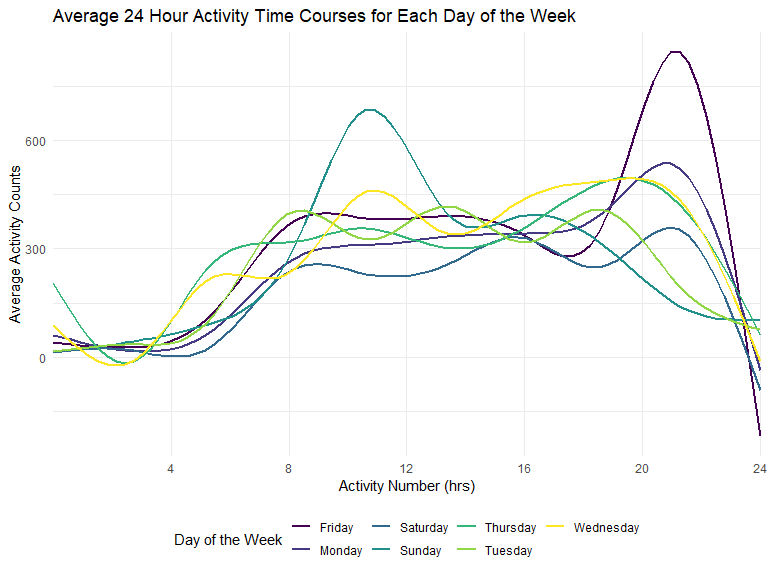
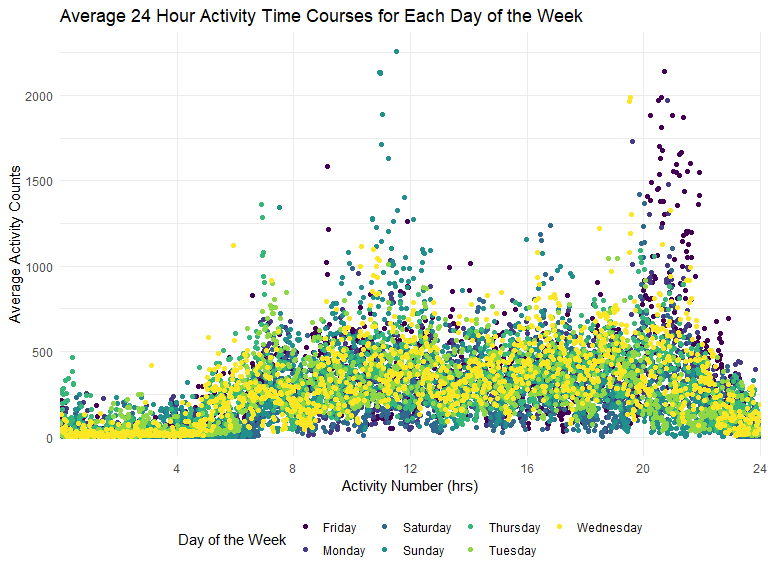
Working on descriptions and formatting for problems 1 and 2

diff --git a/p8105_hw3_jt3175.md b/p8105_hw3_jt3175.md
@@ -5,19 +5,14 @@ Julia Thompson
 
 ## Problem 1
 
-Load the data:
+Loading the *Instacart* data and pulling a random sample for an example:
 
 ``` r
 data("instacart")
 ```
 
-The goal is to do some exploration of this dataset. To that end, write a
-short description of the dataset, noting the size and structure of the
-data, describing some key variables, and giving illstrative examples of
-observations.
-
 ``` r
-# Look at a random person's order info for an illustrative example
+# Look at a random person's order info for an example
 set.seed(5)
 instacart_sample = instacart %>% 
   filter(user_id == sample(pull(instacart, user_id), 1)) 
@@ -39,36 +34,24 @@ For example, we can look at the order for the customer with *user\_id*
 77951. That customer ordered 7 items, including “Ancient Grain Original
 Granola.” Customer 77951 had ordered 6 of the 7 items previously.
 
-How many aisles are there, and which aisles are the most items ordered
-from?
-
 ``` r
-# get number of unique aisles
-n_distinct(pull(instacart, aisle_id))
-```
-
-    ## [1] 134
-
-``` r
-# sort this, and then show the top 3
 top_aisles = 
   instacart %>% 
   count(aisle) %>% 
   arrange(desc(n)) %>% 
   top_n(3, n)
-
-knitr::kable(top_aisles)
 ```
+
+There are 134 aisles, and from the below table, we see that the top 3
+aisles most items are ordered from are fresh vegetables, fresh fruits,
+and packaged vegetables fruits. Here, n represents the total number of
+items ordered from the respective aisle.
 
 | aisle                      |      n |
 | :------------------------- | -----: |
 | fresh vegetables           | 150609 |
 | fresh fruits               | 150473 |
 | packaged vegetables fruits |  78493 |
-
-Make a plot that shows the number of items ordered in each aisle,
-limiting this to aisles with more than 10000 items ordered. Arrange
-aisles sensibly, and organize your plot so others can read it.
 
 ``` r
 aisles_over_10k = 
@@ -90,10 +73,13 @@ ggplot(aisles_over_10k, aes(x = reorder(aisle, -n), y = n)) +
 
 <img src="p8105_hw3_jt3175_files/figure-gfm/unnamed-chunk-4-1.png" width="90%" />
 
-Make a table showing the three most popular items in each of the aisles
-“baking ingredients”, “dog food care”, and “packaged vegetables
-fruits”. Include the number of times each item is ordered in your
-table.
+The above plot shows the number of items ordered in each aisle for
+aisles with more than 10,000 items ordered. We can see the same 3 items
+shown in the chart: *fresh vegetables*, *fresh fruits*, and *packaged
+vegetables fruits*. The majority of the aisles have less than 25,000
+items ordered, with the *butter* aisle having the least (in the \>
+10,000 category). I found it surprising that *water seltzer sparkling
+water* ranked so high in number of items bought.
 
 ``` r
 fav_items = instacart %>% 
@@ -104,9 +90,14 @@ fav_items = instacart %>%
   ) %>% 
   top_n(3, n) %>% 
   arrange(aisle, n)
-
-knitr::kable(fav_items)
 ```
+
+The below table shows the three most popular items in *baking
+ingredients*, *dog food care*, and *packaged vegetables fruits*, and the
+number of times each item was ordered. The *dog food care* aisle’s top 3
+items were all much lower than the *baking ingredients* and *packaged
+vegetables fruits*, which makes
+sense.
 
 | aisle                      | product\_name                                   |    n |
 | :------------------------- | :---------------------------------------------- | ---: |
@@ -119,10 +110,6 @@ knitr::kable(fav_items)
 | packaged vegetables fruits | Organic Blueberries                             | 1692 |
 | packaged vegetables fruits | Organic Raspberries                             | 1920 |
 | packaged vegetables fruits | Organic Baby Spinach                            | 3324 |
-
-Make a table showing the mean hour of the day at which Pink Lady Apples
-and Coffee Ice Cream are ordered on each day of the week; format this
-table for human readers (i.e. produce a 2 x 7 table).
 
 ``` r
 hr_of_day = instacart %>% 
@@ -144,26 +131,30 @@ hr_of_day = instacart %>%
     Friday    = `5`, 
     Saturday  = `6`
   )
-
-knitr::kable(hr_of_day)
 ```
 
-| product\_name    |   Sunday |   Monday |  Tuesday | Wednesday | Thursday |   Friday | Saturday |
-| :--------------- | -------: | -------: | -------: | --------: | -------: | -------: | -------: |
-| Coffee Ice Cream | 13.22222 | 15.00000 | 15.33333 |   15.4000 | 15.16667 | 10.33333 | 12.35294 |
-| Pink Lady Apples | 12.25000 | 11.67857 | 12.00000 |   13.9375 | 11.90909 | 13.86957 | 11.55556 |
+The below table shows the average hour of the day at which Pink Lady
+Apples and Coffee Ice Cream were ordered on each day of the week. It is
+important to note that we assumed 0 corresponded to Sunday in the
+dataset. We can see that people generally ordered Coffee Ice Cream a
+little bit later in the day than Pink Lady Apples, other than on
+Fridays.
+
+| product\_name    | Sunday | Monday | Tuesday | Wednesday | Thursday | Friday | Saturday |
+| :--------------- | -----: | -----: | ------: | --------: | -------: | -----: | -------: |
+| Coffee Ice Cream |  13.22 |  15.00 |   15.33 |     15.40 |    15.17 |  10.33 |    12.35 |
+| Pink Lady Apples |  12.25 |  11.68 |   12.00 |     13.94 |    11.91 |  13.87 |    11.56 |
 
 ## Problem 2
+
+Loaded in the *brfss\_smart2010* data and cleaned it. Created a new
+dataset, *brfss*, that only contained the “Overall Health” topic and
+responses from “Poor” to “Excellent”, which were organized in ascending
+order that way as a factor variable.
 
 ``` r
 data("brfss_smart2010")
 ```
-
-First, do some data cleaning:
-
-format the data to use appropriate variable names; focus on the “Overall
-Health” topic include only responses from “Excellent” to “Poor” organize
-responses as a factor taking levels ordered from “Poor” to “Excellent”
 
 ``` r
 brfss = brfss_smart2010 %>% 
@@ -174,9 +165,6 @@ brfss = brfss_smart2010 %>%
   ) %>% 
   rename(state = locationabbr)
 ```
-
-In 2002, which states were observed at 7 or more locations? What about
-in 2010?
 
 ``` r
 brfss_2002 = brfss %>% 
@@ -194,9 +182,11 @@ brfss_2010 = brfss %>%
     n_dist = n_distinct(locationdesc)
   ) %>% 
   filter(n_dist >= 7)
-
-knitr::kable(brfss_2002)
 ```
+
+In 2002, we see that there were 6 states that were observed at 7 or more
+locations. The below table gives the states as well as the corresponding
+number of locations.
 
 | state | n\_dist |
 | :---- | ------: |
@@ -207,9 +197,10 @@ knitr::kable(brfss_2002)
 | NJ    |       8 |
 | PA    |      10 |
 
-``` r
-knitr::kable(brfss_2010)
-```
+In 2010, there were 14 states that were observed at 7 or more locations.
+The below table shows the states and number of locations. We see that
+the number of states observed at 7 or more locations more than doubled
+between 2002 and 2010.
 
 | state | n\_dist |
 | :---- | ------: |
@@ -430,7 +421,24 @@ acc_by_dow = acc_data_long %>%
     avg_value = mean(activity_counts)
   )
 
-plot = 
+plot_point = 
+  ggplot(acc_by_dow, aes(x = activity_number, y = avg_value, color = day_of_week)) +
+  geom_point() +
+  scale_x_discrete(limit = c(240,480,720,960,1200,1440), 
+                   labels=c("4", "8", "12", "16", "20", "24")) +
+  labs(
+    title = "Average 24 Hour Activity Time Courses for Each Day of the Week",
+    x = "Activity Number (hrs)",
+    y = "Average Activity Counts"
+  )
+
+plot_point + labs(color = "Day of the Week")
+```
+
+<img src="p8105_hw3_jt3175_files/figure-gfm/unnamed-chunk-15-1.png" width="90%" />
+
+``` r
+plot_smooth = 
   ggplot(acc_by_dow, aes(x = activity_number, y = avg_value, color = day_of_week)) +
   geom_smooth(se=FALSE) +
   scale_x_discrete(limit = c(240,480,720,960,1200,1440), 
@@ -441,9 +449,9 @@ plot =
     y = "Average Activity Counts"
   )
 
-plot + labs(color = "Day of the Week")
+plot_smooth + labs(color = "Day of the Week")
 ```
 
     ## `geom_smooth()` using method = 'gam' and formula 'y ~ s(x, bs = "cs")'
 
-<img src="p8105_hw3_jt3175_files/figure-gfm/unnamed-chunk-15-1.png" width="90%" />
+<img src="p8105_hw3_jt3175_files/figure-gfm/unnamed-chunk-15-2.png" width="90%" />
